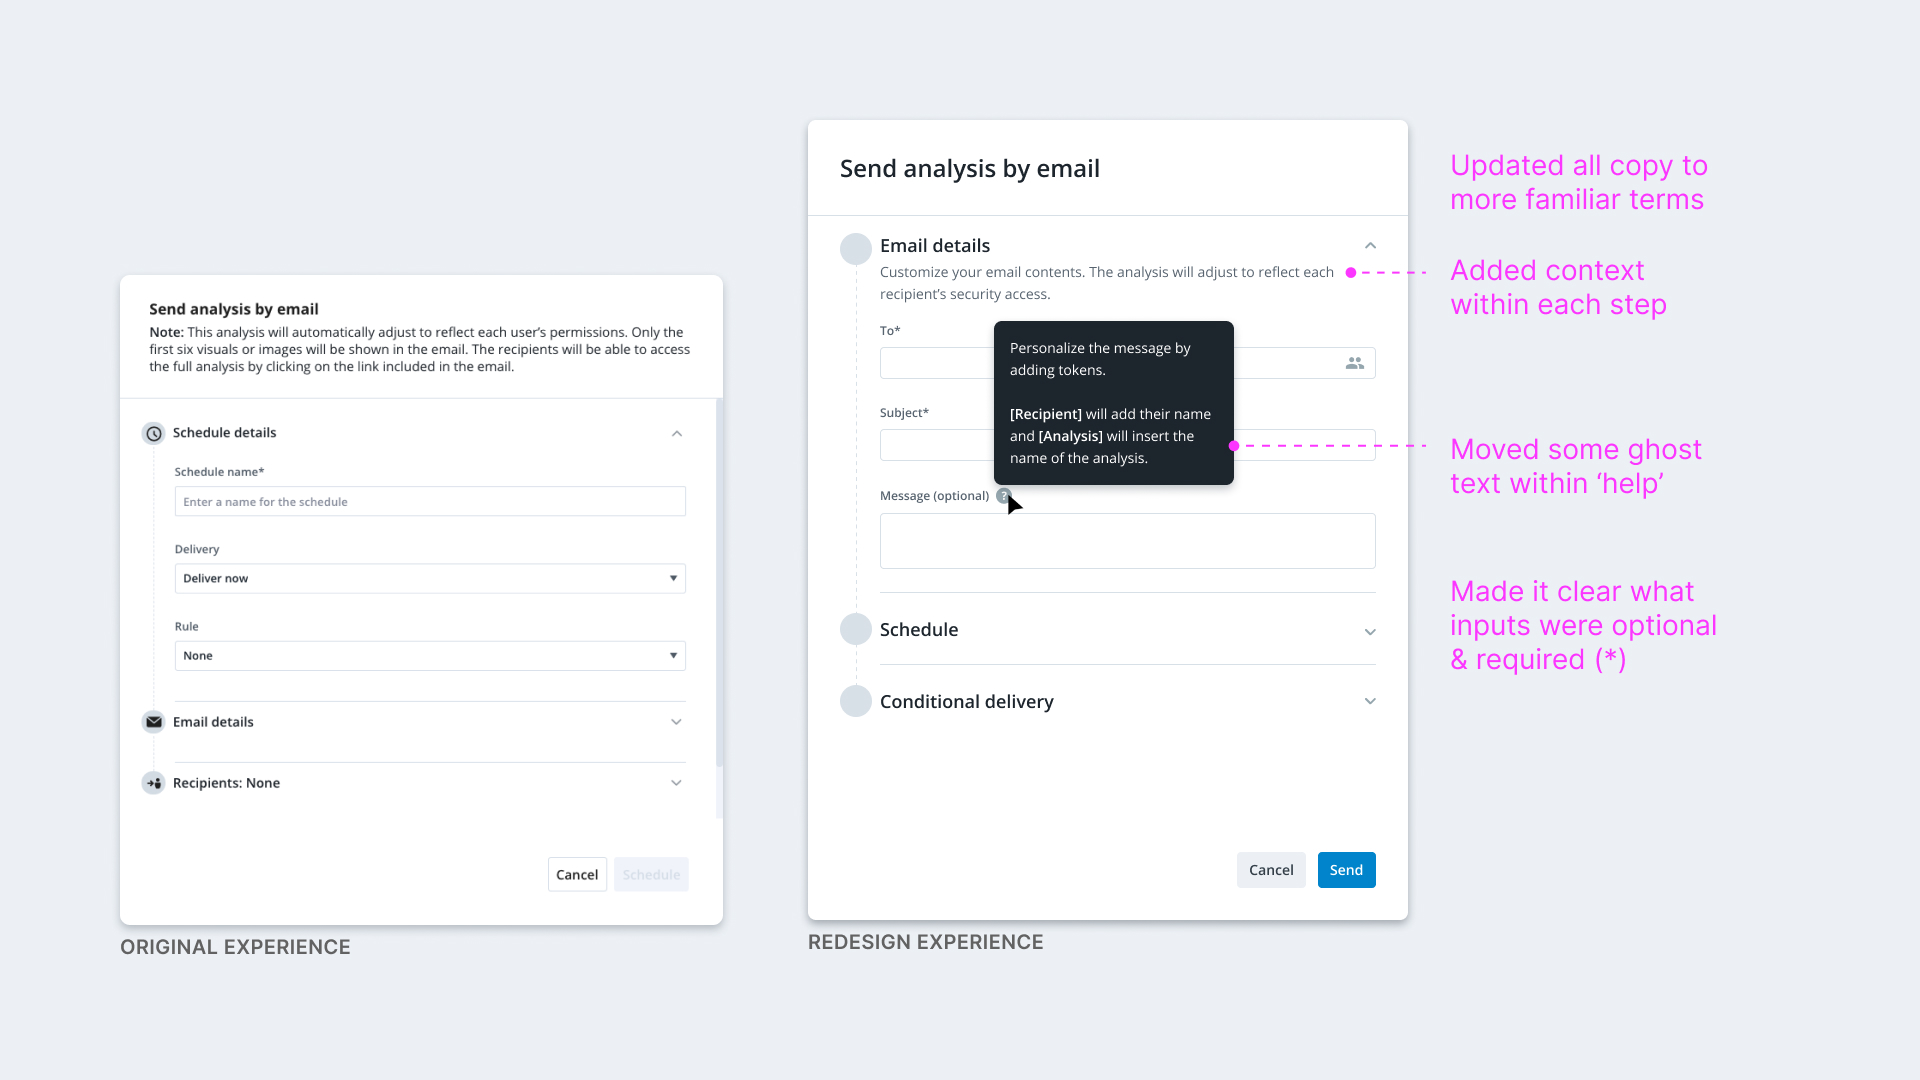
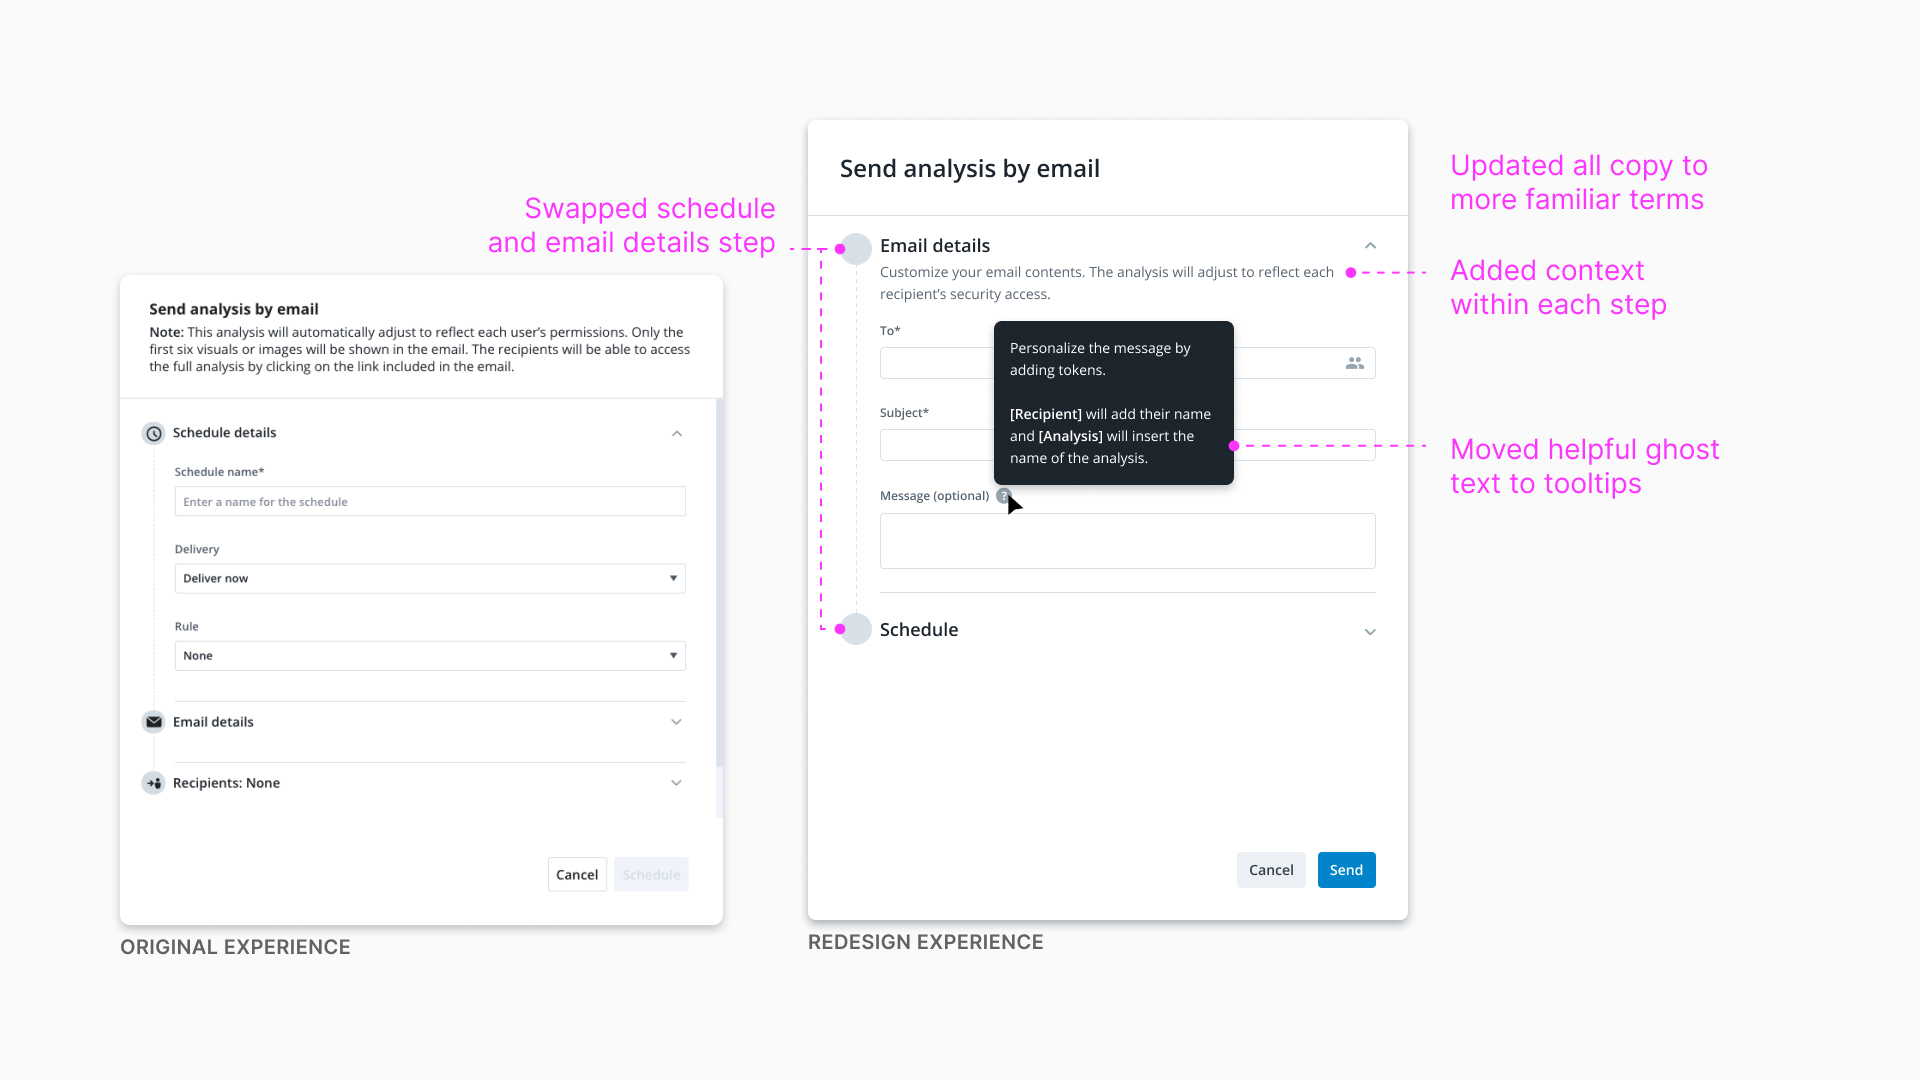
Visier content updates

diff --git a/_site/work/visier-email.html b/_site/work/visier-email.html
@@ -225,7 +225,7 @@
 <p>I recruited five internal users and facilited usability test sessions to uncover pain points in the current design.</p>
 
 <ul>
-  <li><strong>The flow of did not match mental models of sending an email</strong> - People expressed that the current flow of sending an email was confusing. They first wanted to input WHO they are sending the email to, then WHAT they are sending, and finally shedule WHEN they wanted the email to send.</li>
+  <li><strong>The flow of did not match mental models of sending an email.</strong> - People expressed that the current flow of sending an email was confusing. They first wanted to input WHO they are sending the email to, then WHAT they are sending, and finally shedule WHEN they wanted the email to send.</li>
 </ul>
 
 <blockquote>
@@ -233,7 +233,7 @@
 </blockquote>
 
 <ul>
-  <li><strong>Novice users struggled to complete inputs</strong>- Many participants who were new to using the email experience questioned what certain input fields such as ‘rule’ were asking them for. This slowed down their ability to complete the task.</li>
+  <li><strong>Novice users struggled to complete inputs.</strong> - Many participants who were new to using the email experience questioned what certain input fields such as ‘rule’ were asking them for. This slowed down their ability to complete the task.</li>
 </ul>
 
 <blockquote>
@@ -241,7 +241,7 @@
 </blockquote>
 
 <ul>
-  <li><strong>Setting a conditional delivery experienced the most friction</strong> - 40% of participants said that they did not feel confident that they successfully completed their task to input a conditional delivery. They wanted more support.</li>
+  <li><strong>Setting a conditional delivery experienced the most friction.</strong> - 40% of participants said that they did not feel confident that they successfully completed their task to input a conditional delivery. They wanted more support.</li>
 </ul>
 
 <blockquote>
@@ -257,25 +257,32 @@
 
 <h3 id="form-design-and-scheduling-in-the-wild">Form design and scheduling in the wild</h3>
 <p>I looked at other platforms to see how they design forms and email schedulers</p>
+
 <ul>
-  <li><strong>It’s common to break a complex task into multiple steps</strong> - The current scheduler is a long form fit in a small space, with much of the content hidden in a scroll. When thinking about other complex tasks, Checkout Experiences came to mind as they are often chunked into manageable portions to complete. Often, divided into pages for order summary, shipping, delivery, payment, and review. Reducing the number of questions asked at once makes these tasks appear more manageable.</li>
-  <li><strong>Differentiating required vs optional fields</strong> - A common pattern found to communicate required vs optional fields was to mark * and (optional) for each input</li>
-  <li><strong>Scheduling tools follow a common pattern</strong> - Scheduling platforms including Gmail, Outlook, Calendly, and Mailchimp follow a similar pattern which was noted by participants in usability test sessions (who, what, when). This reaffirmed that our email scheduler could be improved by following a somewhat standardized flow and copy.</li>
+  <li>
+    <p><strong>It’s common to break a complex task into multiple steps.</strong> - The current scheduler is a long form fit in a small space, with much of the content hidden in a scroll. When thinking about other complex tasks, Checkout Experiences came to mind as they are often chunked into manageable portions to complete. Often, divided into pages for order summary, shipping, delivery, payment, and review. Reducing the number of questions asked at once makes these tasks appear more manageable.</p>
+  </li>
+  <li>
+    <p><strong>Differentiating required vs optional fields.</strong> - A common pattern found to communicate required vs optional fields was to mark * and (optional) for each input.</p>
+  </li>
+  <li>
+    <p><strong>Scheduling tools follow a somewhat standard flow.</strong> - Gmail, Outlook, Calendly, and Mailchimp follow similar user flows of completing the contents (eg. recipiencts, subject, message) before creating a schedule.</p>
+  </li>
 </ul>
 
 <p><img src="/images/visier-wild1.jpg" alt="Inspiration" />
 <em>Example of Best Buy checkout experience</em></p>
 
 <p><img src="/images/visier-wild2.jpg" alt="Inspiration" />
-<em>Example of email / scheduling experiences</em></p>
+<em>Example of creating an event in Calendly</em></p>
 
 <h2 id="the-solution">The solution</h2>
 
-<p><img src="/images/visier-solution1.jpg" alt="Inspiration" /></p>
+<p><img src="/images/visier-solution1.jpg" alt="Solution" /></p>
 
-<p><img src="/images/visier-solution2.jpg" alt="Inspiration" /></p>
+<p><img src="/images/visier-solution2.jpg" alt="Solution" /></p>
 
-<p><img src="/images/visier-solution3.jpg" alt="Inspiration" /></p>
+<p><img src="/images/visier-solution3.jpg" alt="Solution" /></p>
 
 <p>By understanding user pain points and priorities we were able to create a solution where user testing participants</p>
 
@@ -285,18 +292,16 @@
 
 <p>I had the opportunity to present this project to over 100 people at Visier. During my internship, recommendations for the conditional delivery workflow were implemented in the app, including making the copy clear and easy to understand, changing the order of steps to match users expectations, and adding more context to support users with complicated tasks.</p>
 
-<p><img src="/images/visier-solution4.jpg" alt="Inspiration" />
+<p><img src="/images/visier-solution4.jpg" alt="Vision" />
 <em>Modal vision</em></p>
 
-<p>The modal vision moved steps to the left side panel. It was important for a new design to be extensible, and this vision matched other vision work for different parts of the app.</p>
+<p>A vision for the modal design used our new design system colours and type. It also moved steps to the left side panel, a pattern that is already being used in other parts of the app.</p>
 
 <h2 id="final-thoughts">Final thoughts</h2>
 
-<p><strong>Create positive moments by empathising with users</strong>
-The email experience was enhanced as a result of testing the workflow on users, gathering feedback, and iterating the design.</p>
+<p><strong>Create positive moments by empathising with users.</strong> - The email experience was enhanced as a result of testing the workflow on users, gathering feedback, and iterating the design.</p>
 
-<p><strong>We can make workflows easier by leveraging better design patterns</strong>
-A problem found with the current drawers pattern was that it’s easy to make mistakes. Information is lost in a scroll making it difficult to see the contents of each step. By leveraging an improved design pattern - a wizard - I was able to separate the complex workflow into small and manageable tasks to help users easily go through each step.</p>
+<p><strong>We can make workflows easier by leveraging better design patterns.</strong> - A problem found with the current drawers pattern was that it’s easy to make mistakes. Information is lost in a scroll making it difficult to see the contents of each step. By leveraging an improved design pattern - a wizard - I was able to separate the complex workflow into small and manageable tasks to help users easily go through each step.</p>
 
   </div>
 

diff --git a/_works/visier-email.md b/_works/visier-email.md
@@ -48,15 +48,15 @@ During my internship, I worked on improving how Visier users send an analysis by
 ### User pain points
 I recruited five internal users and facilited usability test sessions to uncover pain points in the current design.
 
-- **The flow of did not match mental models of sending an email** - People expressed that the current flow of sending an email was confusing. They first wanted to input WHO they are sending the email to, then WHAT they are sending, and finally shedule WHEN they wanted the email to send.
+- **The flow of did not match mental models of sending an email.** - People expressed that the current flow of sending an email was confusing. They first wanted to input WHO they are sending the email to, then WHAT they are sending, and finally shedule WHEN they wanted the email to send.
 
 > I just spent time building my analysis and now I want to share it. The first place I go to is who I’m sharing this with or subject line for email details
 
-- **Novice users struggled to complete inputs**- Many participants who were new to using the email experience questioned what certain input fields such as 'rule' were asking them for. This slowed down their ability to complete the task.
+- **Novice users struggled to complete inputs.** - Many participants who were new to using the email experience questioned what certain input fields such as 'rule' were asking them for. This slowed down their ability to complete the task.
 
 > I felt dumb completing that process - I didn’t know a lot of the terms and reasoning why
 
-- **Setting a conditional delivery experienced the most friction** - 40% of participants said that they did not feel confident that they successfully completed their task to input a conditional delivery. They wanted more support. 
+- **Setting a conditional delivery experienced the most friction.** - 40% of participants said that they did not feel confident that they successfully completed their task to input a conditional delivery. They wanted more support. 
 
 > I don’t know if I succeeded. I’m not confident that I have the metrics as I want them to be. I would have to go somewhere else to check if the condition is the way I want it to be
 
@@ -69,25 +69,28 @@ I recruited five internal users and facilited usability test sessions to uncover
 
 ### Form design and scheduling in the wild
 I looked at other platforms to see how they design forms and email schedulers
-- **It's common to break a complex task into multiple steps** - The current scheduler is a long form fit in a small space, with much of the content hidden in a scroll. When thinking about other complex tasks, Checkout Experiences came to mind as they are often chunked into manageable portions to complete. Often, divided into pages for order summary, shipping, delivery, payment, and review. Reducing the number of questions asked at once makes these tasks appear more manageable. 
-- **Differentiating required vs optional fields** - A common pattern found to communicate required vs optional fields was to mark * and (optional) for each input
-- **Scheduling tools follow a common pattern** - Scheduling platforms including Gmail, Outlook, Calendly, and Mailchimp follow a similar pattern which was noted by participants in usability test sessions (who, what, when). This reaffirmed that our email scheduler could be improved by following a somewhat standardized flow and copy.
+
+- **It's common to break a complex task into multiple steps.** - The current scheduler is a long form fit in a small space, with much of the content hidden in a scroll. When thinking about other complex tasks, Checkout Experiences came to mind as they are often chunked into manageable portions to complete. Often, divided into pages for order summary, shipping, delivery, payment, and review. Reducing the number of questions asked at once makes these tasks appear more manageable. 
+
+- **Differentiating required vs optional fields.** - A common pattern found to communicate required vs optional fields was to mark * and (optional) for each input.
+
+- **Scheduling tools follow a somewhat standard flow.** - Gmail, Outlook, Calendly, and Mailchimp follow similar user flows of completing the contents (eg. recipiencts, subject, message) before creating a schedule.   
 
 ![Inspiration]({{site.baseurl}}/images/visier-wild1.jpg)
 *Example of Best Buy checkout experience*
 
 ![Inspiration]({{site.baseurl}}/images/visier-wild2.jpg)
-*Example of email / scheduling experiences*
+*Example of creating an event in Calendly*
 
 
 
 ## The solution  
 
-![Inspiration]({{site.baseurl}}/images/visier-solution1.jpg)
+![Solution]({{site.baseurl}}/images/visier-solution1.jpg)
 
-![Inspiration]({{site.baseurl}}/images/visier-solution2.jpg)
+![Solution]({{site.baseurl}}/images/visier-solution2.jpg)
 
-![Inspiration]({{site.baseurl}}/images/visier-solution3.jpg)
+![Solution]({{site.baseurl}}/images/visier-solution3.jpg)
 
 By understanding user pain points and priorities we were able to create a solution where user testing participants
 
@@ -97,17 +100,15 @@ By understanding user pain points and priorities we were able to create a soluti
 
 I had the opportunity to present this project to over 100 people at Visier. During my internship, recommendations for the conditional delivery workflow were implemented in the app, including making the copy clear and easy to understand, changing the order of steps to match users expectations, and adding more context to support users with complicated tasks. 
 
-![Inspiration]({{site.baseurl}}/images/visier-solution4.jpg)
+![Vision]({{site.baseurl}}/images/visier-solution4.jpg)
 *Modal vision*
 
-The modal vision moved steps to the left side panel. It was important for a new design to be extensible, and this vision matched other vision work for different parts of the app. 
+A vision for the modal design used our new design system colours and type. It also moved steps to the left side panel, a pattern that is already being used in other parts of the app.
 
 
 
 ## Final thoughts 
 
-**Create positive moments by empathising with users**
-The email experience was enhanced as a result of testing the workflow on users, gathering feedback, and iterating the design. 
+**Create positive moments by empathising with users.** - The email experience was enhanced as a result of testing the workflow on users, gathering feedback, and iterating the design. 
 
-**We can make workflows easier by leveraging better design patterns**
-A problem found with the current drawers pattern was that it’s easy to make mistakes. Information is lost in a scroll making it difficult to see the contents of each step. By leveraging an improved design pattern - a wizard - I was able to separate the complex workflow into small and manageable tasks to help users easily go through each step.
+**We can make workflows easier by leveraging better design patterns.** - A problem found with the current drawers pattern was that it’s easy to make mistakes. Information is lost in a scroll making it difficult to see the contents of each step. By leveraging an improved design pattern - a wizard - I was able to separate the complex workflow into small and manageable tasks to help users easily go through each step.
